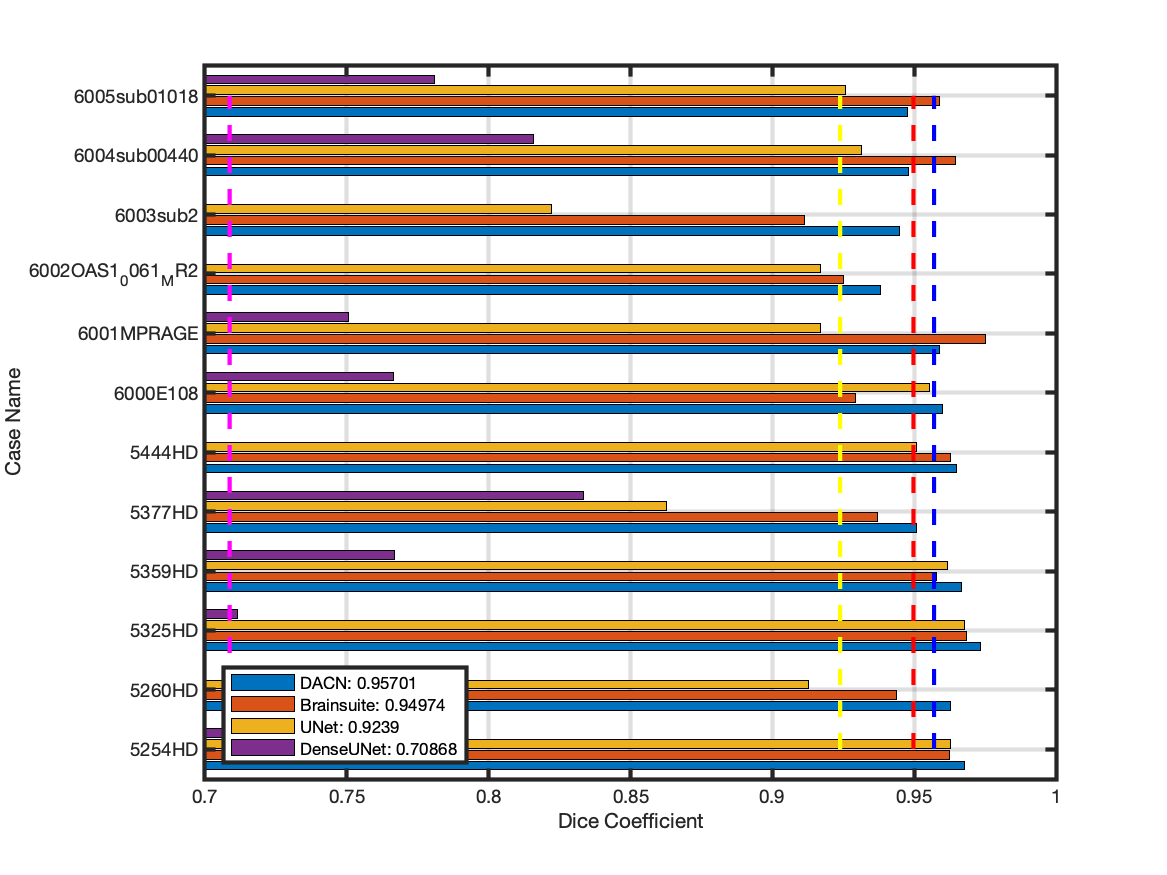
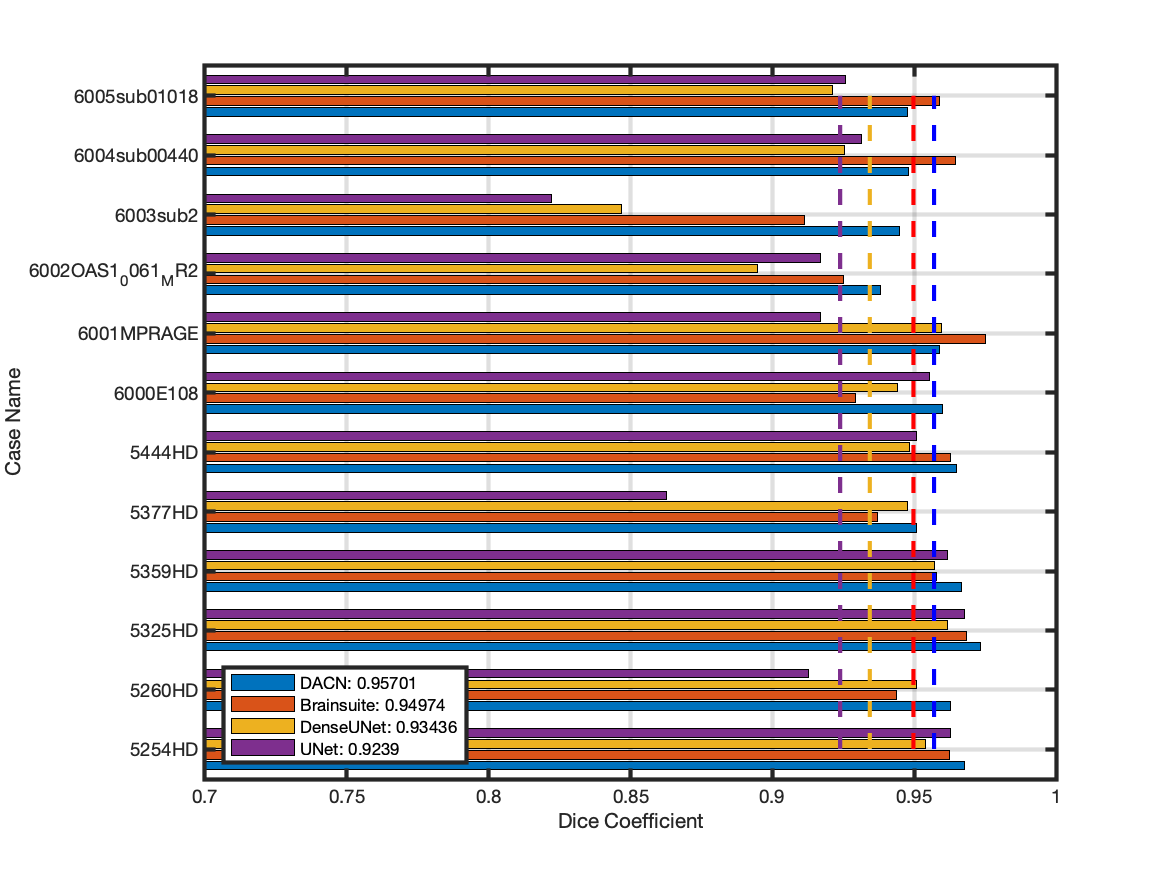
add sta results

diff --git a/Evaluation.m b/Evaluation.m
@@ -68,7 +68,7 @@ end
 
 %% plot
 figure(1)
-x = [[dice_coef_dl'], [dice_coef_bse'], [dice_coef_unet'], [dice_coef_denseunet']];
+x = [[dice_coef_dl'], [dice_coef_bse'], [dice_coef_denseunet'], [dice_coef_unet']];
 y = categorical(case_name_list);
 barh(y, x)
 set(gca,'FontSize',9);
@@ -82,9 +82,10 @@ ax.LineWidth = 2;
 ylim=get(gca,'Ylim');
 line([dice_dl_avg, dice_dl_avg], ylim, 'Color','blue','LineStyle','--', 'LineWidth',2 );
 line([dice_bse_avg, dice_bse_avg], ylim, 'Color','red','LineStyle','--', 'LineWidth',2 );
-line([dice_unet_avg, dice_unet_avg], ylim, 'Color','yellow','LineStyle','--', 'LineWidth',2 );
-line([dice_denseunet_avg, dice_denseunet_avg], ylim, 'Color','magent','LineStyle','--', 'LineWidth',2 );
-legend({['DACN: ', num2str(dice_dl_avg)], ['Brainsuite: ', num2str(dice_bse_avg)], ['UNet: ', num2str(dice_unet_avg)], ['DenseUNet: ', num2str(dice_denseunet_avg)]}, 'Location','southwest');
+line([dice_denseunet_avg, dice_denseunet_avg], ylim, 'Color','#EDB120','LineStyle','--', 'LineWidth',2 );
+line([dice_unet_avg, dice_unet_avg], ylim, 'Color','#7E2F8E','LineStyle', '--', 'LineWidth',2 );
+
+legend({['DACN: ', num2str(dice_dl_avg)], ['Brainsuite: ', num2str(dice_bse_avg)], ['DenseUNet: ', num2str(dice_denseunet_avg)], ['UNet: ', num2str(dice_unet_avg)]}, 'Location','southwest');
 saveas(gcf,'result_final.png')
 
 

diff --git a/save_pred_and_quantify.m b/save_pred_and_quantify.m
@@ -3,7 +3,7 @@ clear;
 
 % masks' path
 masks_path = '../Dataset/test_data-bs/test_data_bmp/masks/';
-preds_path = '../network4/samples/';
+preds_path = '../network4/samples_net/';
 final_preds_path = '../png_pred_results_densenet/';
 masks_folder=dir(masks_path);
 masks_file= {masks_folder.name};
